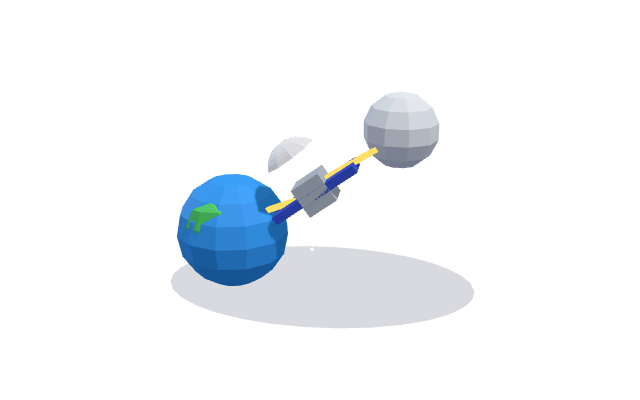
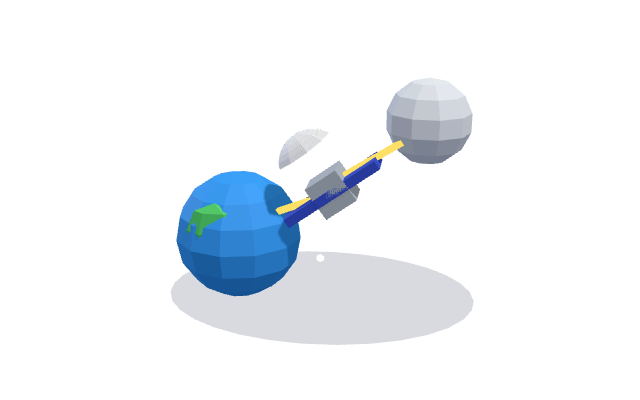
Hub: 2-column list, sliding tab ink + staggered rows, 3D dice button without glow, no layout shift, drop 생활 tab

Changed region(s): [[0.25, 0.18, 0.75, 0.87]]

diff --git a/index.html b/index.html
@@ -11,29 +11,34 @@
 <style>
   *{box-sizing:border-box}
   /* clean list layout · 얼마집 blue accent */
-  :root{--accent:#2d6ff0;--accent-dark:#1f54c4;--ink:#191f28;--ink-2:#4e5968;--ink-3:#8b95a1;--line:#f2f4f6;--chip:#f2f4f6;--tile:#f3f6fb}
-  html,body{background:#fff}
+  :root{--accent:#2d6ff0;--accent-dark:#1f54c4;--ink:#191f28;--ink-2:#4e5968;--ink-3:#8b95a1;--line:#f2f4f6;--chip:#f2f4f6;--tile:#edf1f7}
+  html,body{background:#fff} html{scrollbar-gutter:stable;overflow-x:hidden}
   body{margin:0;min-height:100vh;color:var(--ink);font-family:Pretendard,-apple-system,BlinkMacSystemFont,"Apple SD Gothic Neo","Noto Sans KR",sans-serif;-webkit-font-smoothing:antialiased}
-  main{max-width:600px;margin:0 auto;padding:max(20px,env(safe-area-inset-top)) max(20px,env(safe-area-inset-right)) 120px max(20px,env(safe-area-inset-left))}
+  main{max-width:920px;margin:0 auto;padding:max(20px,env(safe-area-inset-top)) max(20px,env(safe-area-inset-right)) 120px max(20px,env(safe-area-inset-left))}
   header{display:flex;align-items:center;gap:12px;padding:12px 0 6px}
   header img{width:44px;height:44px}
   header h1{margin:0;font-size:22px;font-weight:700;letter-spacing:-.02em}
   header p{margin:2px 0 0;font-size:14px;color:var(--ink-3)}
   /* tabs */
-  .tabs{display:flex;gap:22px;margin:14px -20px 0;padding:0 20px;border-bottom:1px solid var(--line);overflow-x:auto;scrollbar-width:none}
+  .tabs{position:relative;display:flex;gap:22px;margin:14px 0 0;padding:0;border-bottom:1px solid var(--line);overflow-x:auto;scrollbar-width:none}
   .tabs::-webkit-scrollbar{display:none}
   .tabs button{flex:none;border:0;background:none;padding:12px 2px 13px;font:600 17px Pretendard,sans-serif;color:var(--ink-3);cursor:pointer;position:relative;letter-spacing:-.02em}
-  .tabs button.on{color:var(--ink)}
-  .tabs button.on::after{content:"";position:absolute;left:0;right:0;bottom:-1px;height:2px;background:var(--ink);border-radius:2px}
+  .tabs button{transition:color .2s}.tabs button.on{color:var(--ink)}
+  .tabs .ink{position:absolute;bottom:-1px;height:2px;background:var(--ink);border-radius:2px;transition:left .3s cubic-bezier(.3,.8,.3,1),width .3s cubic-bezier(.3,.8,.3,1)}
+  .gi,.empty{animation:rise .38s cubic-bezier(.2,.8,.3,1) both;animation-delay:calc(var(--i,0) * 28ms)}
+  @keyframes rise{from{opacity:0;transform:translateY(10px)}}
+  #sec{transition:opacity .2s}
   /* featured row */
-  .feat{display:flex;align-items:center;gap:14px;margin:18px 0 10px;padding:16px;border-radius:20px;background:#f9fafb;border:1px solid var(--line);text-decoration:none;color:inherit}
+  .feat{display:flex;align-items:center;gap:14px;margin:18px 0 10px;padding:16px;border-radius:20px;background:#f2f4f7;border:1px solid #eaedf1;text-decoration:none;color:inherit}
   .feat .ic{width:60px;height:60px;border-radius:16px}
   .feat b{font-size:17px}
   /* list */
   .sec{margin:22px 0 4px;font-size:15px;font-weight:600;color:var(--ink-2)}
-  #list{display:flex;flex-direction:column}
-  .gi{display:flex;align-items:center;gap:14px;padding:12px 8px;margin:0 -8px;border-radius:16px;text-decoration:none;color:inherit;transition:background .15s}
-  @media(hover:hover){.gi:hover,.feat:hover{background:#f5f7fa}}
+  #list{display:grid;grid-template-columns:minmax(0,1fr);column-gap:28px;align-content:start;min-height:calc(100vh - 160px)}
+  @media(min-width:640px){#list{grid-template-columns:minmax(0,1fr) minmax(0,1fr)}}
+  .empty{grid-column:1/-1}
+  .gi{display:flex;align-items:center;gap:14px;padding:12px 8px;min-width:0;border-radius:16px;text-decoration:none;color:inherit;transition:background .15s}
+  @media(hover:hover){.gi:hover{background:#f5f7fa}.feat:hover{background:#eceff3}}
   .gi:active{background:#eef1f5}
   .rank{width:20px;flex:none;text-align:center;font-size:16px;font-weight:600;color:var(--ink-2)}
   .ic{position:relative;flex:none;width:56px;height:56px;border-radius:15px;background:var(--tile);overflow:hidden}
@@ -48,8 +53,10 @@
   .go{flex:none;border:0;border-radius:999px;padding:8px 14px;font:600 14px Pretendard,sans-serif;background:#e8f0fe;color:var(--accent)}
   .feat .go{background:var(--accent);color:#fff;padding:10px 16px}
   .empty{padding:40px 0;text-align:center;color:var(--ink-3);font-size:14px}
-  .run{position:fixed;left:50%;bottom:max(16px,env(safe-area-inset-bottom));transform:translateX(-50%);width:min(560px,calc(100% - 40px));
-    border:0;border-radius:16px;padding:17px;font:700 17px Pretendard,sans-serif;background:var(--accent);color:#fff;cursor:pointer;box-shadow:0 8px 24px rgba(45,111,240,.3)}
+  .run{position:fixed;left:50%;bottom:max(16px,env(safe-area-inset-bottom));transform:translateX(-50%);width:min(480px,calc(100% - 40px));
+    border:0;border-radius:16px;padding:17px;font:700 17px Pretendard,sans-serif;background:var(--accent);color:#fff;cursor:pointer;display:flex;align-items:center;justify-content:center;gap:8px}
+  .run img{width:36px;height:36px;margin:-8px 0;filter:drop-shadow(0 2px 2px rgba(0,0,0,.25))}
+  .run.spin img{animation:dspin .5s linear infinite} @keyframes dspin{to{transform:rotate(360deg)}}
   .run:active{transform:translateX(-50%) scale(.98)}
   .fade{position:fixed;left:0;right:0;bottom:0;height:110px;background:linear-gradient(rgba(255,255,255,0),#fff 60%);pointer-events:none}
   /* random roulette */
@@ -78,18 +85,16 @@
   <div id="list"></div>
 </main>
 <div class="fade"></div>
-<button class="run" id="run">🎲 랜덤 플레이</button>
+<button class="run" id="run"><img src="thumbs/dice.png" alt="">랜덤 플레이</button>
 <div id="roul"><div class="cap" id="rcap">두구두구두구…</div><div class="win" id="rwin"><span class="ptr l"></span><span class="ptr r"></span></div></div>
 <script>
   const { GAMES } = Arcade;
   const best = k => { try { return +localStorage.getItem(k) || 0; } catch { return 0; } };
   const NEW = new Set(GAMES.slice(-4).map(g => g.id)), HOT = ['soccer', 'fight', 'checkout', 'court'];
-  const REAL = new Set(['tower', 'inspect', 'checkout']);   // 생활·부동산 테마
   const TABS = [
     ['전체', () => GAMES],
     ['인기', () => GAMES.filter(g => HOT.includes(g.id))],
     ['신작', () => GAMES.filter(g => NEW.has(g.id))],
-    ['생활', () => GAMES.filter(g => REAL.has(g.id) || ['bus', 'elevator', 'door', 'shop', 'popcorn', 'cat'].includes(g.id))],
     ['내 기록', () => GAMES.filter(g => best(g.bestKey))],
   ];
   const $ = id => document.getElementById(id);
@@ -105,20 +110,22 @@
     const items = TABS[tab][1]();
     $('sec').textContent = `${TABS[tab][0] === '전체' ? '전체 게임' : TABS[tab][0]} ${items.length}`;
     $('list').innerHTML = items.length ? items.map((g, i) => `
-      <a class="gi" data-id="${g.id}" href="${g.file}">
+      <a class="gi" data-id="${g.id}" href="${g.file}" style="--i:${i}">
         <span class="rank">${i + 1}</span>${icon(g)}
         <div class="tx"><b>${g.name}${tags(g)}</b><small>${best(g.bestKey) ? `<span class="best">최고 ${best(g.bestKey)}${g.unit}</span> · ` : ''}${g.desc}</small></div>
         <span class="go">시작</span>
       </a>`).join('') : '<div class="empty">아직 기록이 없어요. 한 판 해볼까요?</div>';
     bindLive();
   }
-  $('tabs').innerHTML = TABS.map(([n], i) => `<button class="${i ? '' : 'on'}" data-i="${i}">${n}</button>`).join('');
-  $('tabs').addEventListener('click', e => { const b = e.target.closest('button'); if (!b) return; tab = +b.dataset.i; [...$('tabs').children].forEach(x => x.classList.toggle('on', x === b)); renderList(); });
+  $('tabs').innerHTML = TABS.map(([n], i) => `<button class="${i ? '' : 'on'}" data-i="${i}">${n}</button>`).join('') + '<span class="ink"></span>';
+  const moveInk = () => { const b = $('tabs').querySelector('button.on'), ink = $('tabs').querySelector('.ink'); ink.style.left = b.offsetLeft + 'px'; ink.style.width = b.offsetWidth + 'px'; };
+  $('tabs').addEventListener('click', e => { const b = e.target.closest('button'); if (!b || +b.dataset.i === tab) return; tab = +b.dataset.i; $('tabs').querySelectorAll('button').forEach(x => x.classList.toggle('on', x === b)); moveInk(); Arcade.sfx.tap(); renderList(); });
+  addEventListener('resize', moveInk); document.fonts?.ready.then(moveInk); requestAnimationFrame(moveInk);
 
   // 🎲 random play: slot-machine reel that slows down and lands on a game
   let spinning = false;
   $('run').onclick = () => {
-    if (spinning) return; spinning = true;
+    if (spinning) return; spinning = true; $('run').classList.add('spin');
     let last = ''; try { last = sessionStorage.getItem('last-random') || ''; } catch {}
     const pool = GAMES.filter(g => g.id !== last), pick = pool[(Math.random() * pool.length) | 0];
     try { sessionStorage.setItem('last-random', pick.id); } catch {}

diff --git a/thumbs/models.js b/thumbs/models.js
@@ -195,6 +195,18 @@ export const M = {
     const cart = grp(.65, -.75, .55); box(.5, .3, .3, 0xffd43b, 0, 0, 0, 0, 0, 0, cart); cyl(.06, .06, .05, 0x212529, -.15, -.2, .15, Math.PI / 2, 0, 0, cart); cyl(.06, .06, .05, 0x212529, .15, -.2, .15, Math.PI / 2, 0, 0, cart);
     return t => { const k = (t * .8) % 2; ad.scale.setScalar(k < 1 ? Math.min(1, k * 4) : Math.max(0, 1 - (k - 1) * 4)); ad2.scale.setScalar(k > .5 && k < 1.5 ? Math.min(1, (k - .5) * 4) : Math.max(0, 1 - Math.abs(k - 1.5) * 4) * (k >= 1.5 ? 1 : 0)); cart.position.x = .65 + Math.sin(t * 3) * .08; cart.rotation.z = Math.sin(t * 6) * .08; };
   },
+  dice() {   // random-play die: rounded white cube with red/black pips
+    const d = grp(); d.rotation.set(.5, .7, .15);
+    box(1.6, 1.6, 1.6, 0xffffff, 0, 0, 0, 0, 0, 0, d);
+    for (const [x, y, z] of [[1, 1, 0], [1, -1, 0], [-1, 1, 0], [-1, -1, 0], [1, 0, 1], [-1, 0, 1], [1, 0, -1], [-1, 0, -1], [0, 1, 1], [0, -1, 1], [0, 1, -1], [0, -1, -1]]) {
+      const e = new THREE.Mesh(new THREE.CylinderGeometry(.16, .16, 1.6, 8), mat(0xf1f3f5)); e.position.set(x * .8, y * .8, z * .8);
+      if (z === 0) e.rotation.set(0, 0, 0); else if (y === 0) e.rotation.set(0, 0, Math.PI / 2); else e.rotation.set(Math.PI / 2, 0, 0); d.add(e); }
+    const pip = (x, y, z, c = 0x212529) => { const p = sph(.17, c, x, y, z, d, 10, 8); p.scale.set(Math.abs(x) > .79 ? .35 : 1, Math.abs(y) > .79 ? .35 : 1, Math.abs(z) > .79 ? .35 : 1); };
+    pip(0, 0, .81, 0xf03e3e);                                                     // front: 1
+    pip(.81, .4, .4); pip(.81, -.4, -.4); pip(.81, 0, 0);                          // right: 3
+    for (const [a, b] of [[-.4, -.4], [-.4, .4], [.4, -.4], [.4, .4]]) pip(a, .81, b);   // top: 4
+    return t => { d.rotation.set(.5 + t * 2.2, .7 + t * 3, .15); };
+  },
   favicon() {   // little arcade joystick in brand blue
     box(1.8, .6, 1.4, 0x2d6ff0, 0, -.6, 0); box(1.82, .1, 1.42, 0x1f54c4, 0, -.3, 0);
     const stick = grp(-.3, -.3, 0); cyl(.09, .09, 1, 0x343a40, 0, .5, 0, 0, 0, 0, stick); sph(.32, 0xff5252, 0, 1.02, 0, stick); stick.rotation.z = -.25;
